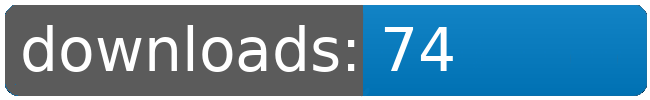
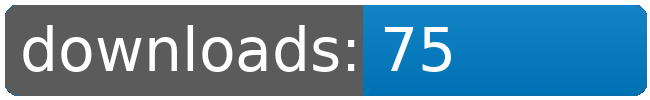
dl log written

Changed region(s): [[0.6462, 0.27, 0.7077, 0.72]]

diff --git a/README.md b/README.md
@@ -87,8 +87,8 @@
 		<td>74</td>
 		<td>74</td>
 		<td>74</td>
-		<td>74</td>
-		<td></td>
+		<td>75</td>
+		<td>+ 1</td>
 	</tr>
 	<tr>
 		<td>Solar.Sails</td>
@@ -120,8 +120,8 @@
 		<td></td>
 		<td></td>
 		<td></td>
-		<td>62210</td>
-		<td>147</td>
+		<td>62211</td>
+		<td>148</td>
 	</tr>
 </table>
 </sub></sup>
@@ -234,8 +234,8 @@
 		<td>74</td>
 		<td>74</td>
 		<td>74</td>
-		<td>74</td>
-		<td></td>
+		<td>75</td>
+		<td>+ 1</td>
 	</tr>
 	<tr>
 		<td></td>
@@ -245,8 +245,8 @@
 		<td></td>
 		<td></td>
 		<td></td>
-		<td>62210</td>
-		<td>147</td>
+		<td>62211</td>
+		<td>148</td>
 	</tr>
 </table>
 </sub></sup>
